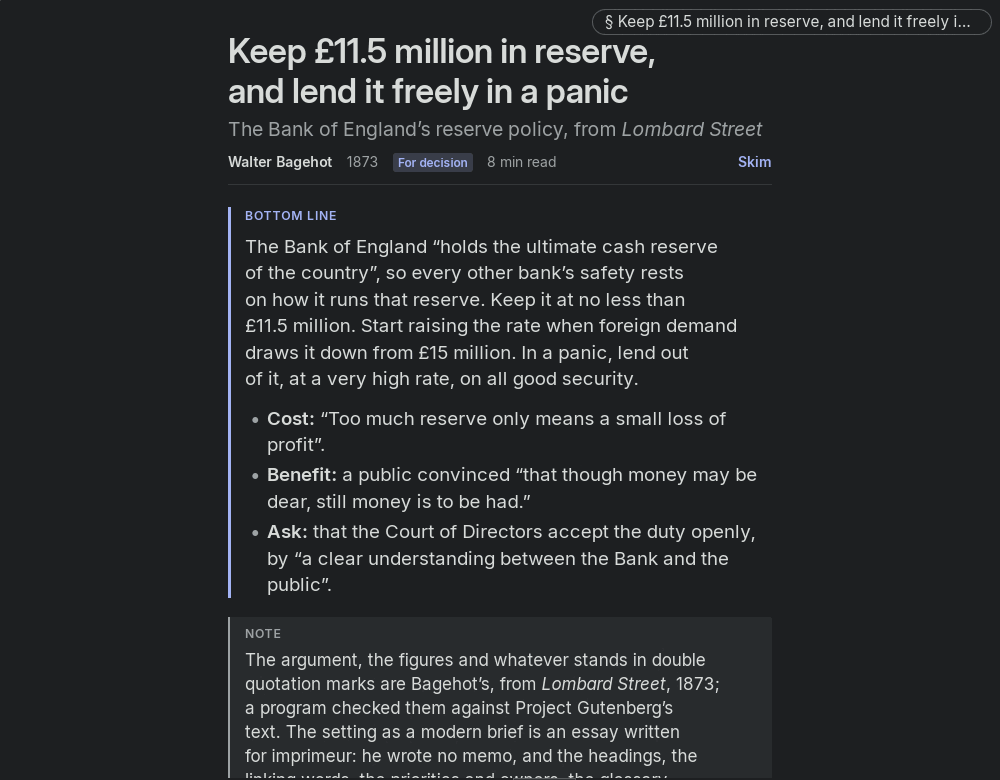
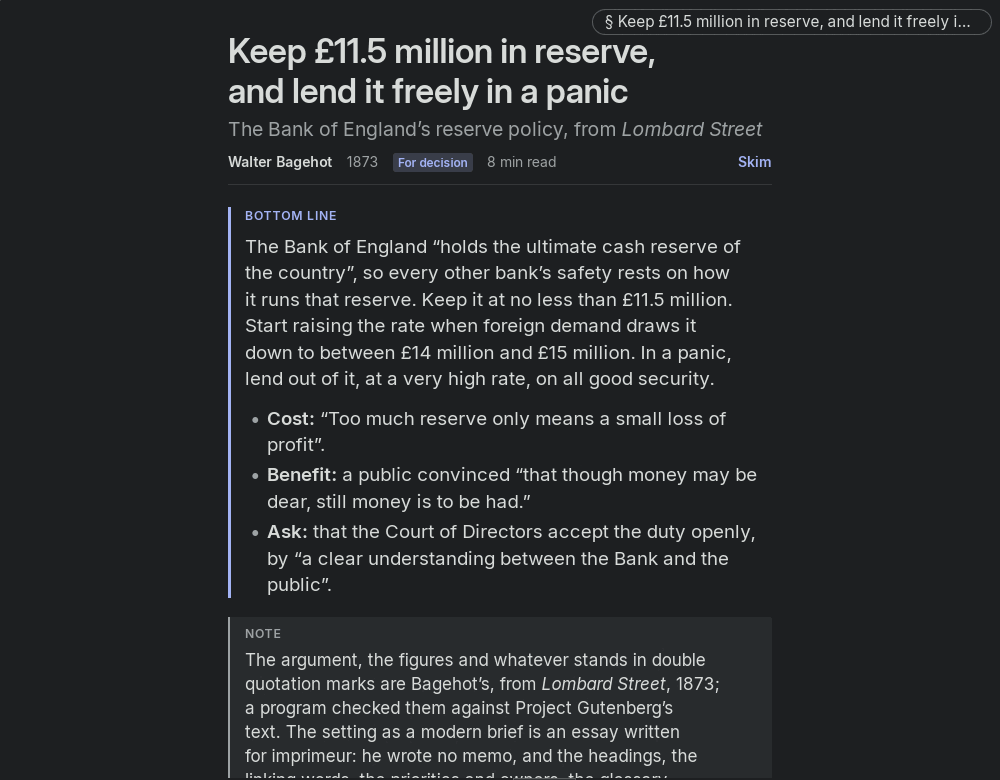
Name both ends of Bagehot's ranges
He gives the floor as two figures and the point of action as a range.
The review found the headline silent on that.

Changed region(s): [[0.248, 0.3077, 0.744, 0.4923]]

diff --git a/examples/briefing/SOURCES.md b/examples/briefing/SOURCES.md
@@ -24,7 +24,7 @@ kinds of space, a note's figure, and a hyphen at a line's end. It fails on a cha
 
 | Brief | Quotations | Not to the letter | The sums, recomputed |
 |---|---|---|---|
-| `bagehot.org` | 56 | 0 | The three liabilities of 1869 add to 27,235,000. The same program finds every other figure of the page in eBook 4359, but for the three increases of the table of panics, which the essay subtracts and the caption says so |
+| `bagehot.org` | 57 | 0 | The three liabilities of 1869 add to 27,235,000. The same program finds every other figure of the text and tables in eBook 4359, but for the three increases of the table of panics, which the essay subtracts and the caption says so. The chart's numbers were read against the tables by hand |
 | `jefferson.md` | 29 | 0 | Lewis's 11 articles add to 2,500, and the purveyor's rows to 1,528 and 2,160.13 |
 
 In `jefferson.md`, the titles of action are the letter's words too, by the same program with a first
